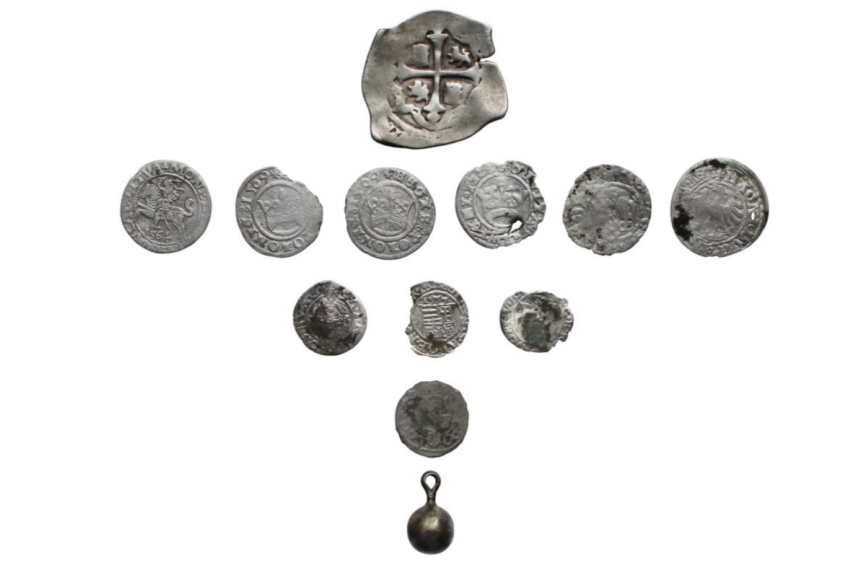
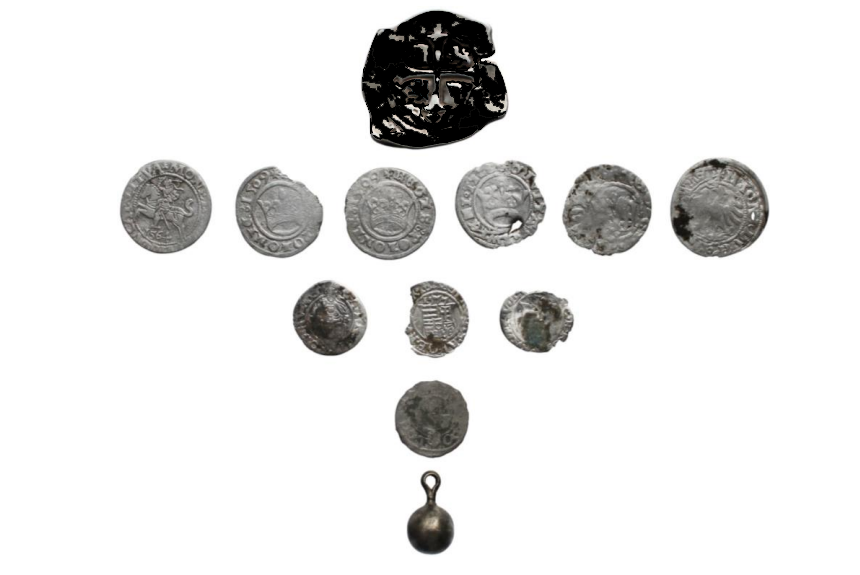
:(

Changed region(s): [[0.4233, 0.0, 0.6047, 0.2661]]

diff --git a/Scripts/extract_imagine.py b/Scripts/extract_imagine.py
@@ -6,7 +6,7 @@ import numpy as np
 
 ##############################################################################################################
 
-imgname = "Assets\\Greyscale test\\start.png"
+imgname = "Assets\\Greyscale test\\fotografietest.png"
 binarythresh = 240
 contrastthresh = 40
 
@@ -16,7 +16,7 @@ contrastthresh = 40
 img = cv.imread(imgname, cv.IMREAD_COLOR)
 rows, cols, _ = img.shape
 grayimg = cv.cvtColor(img, cv.COLOR_BGR2GRAY)
-invbinaryimg = cv.threshold(grayimg, binarythresh, 255, cv.THRESH_BINARY_INV)[1]
+invbinaryimg = cv.threshold(grayimg, binarythresh, 255,cv.THRESH_BINARY)[1]
 
 contours = cv.findContours(invbinaryimg, cv.RETR_EXTERNAL, cv.CHAIN_APPROX_NONE)[0]
 contoursbinaryimg = invbinaryimg.copy()
@@ -53,7 +53,7 @@ for i in range(rows):
                 betterholesimg[i][j] = 0
 
 #save images
-cnts = cv.findContours(betterholesimg, cv.RETR_EXTERNAL, cv.CHAIN_APPROX_SIMPLE)
+cnts = cv.findContours(betterholesimg, cv.RETR_EXTERNAL, cv.CHAIN_APPROX_NONE)
 print(type(cnts))
 cnts = cnts[0] if len(cnts) == 2 else cnts[1]
 image_number = 0
@@ -81,14 +81,43 @@ element = img[y:y+h, x:x+w]
 cv.imwrite("Assets\\Objects\\element_max_perim_{}.png".format(cv.arcLength(maxper_img, True)), element)
 ################################################################################
 #save min and max brightness image
-intensities = []
+"""intensities = []
 for i in range(len(cnts)):
     cimg = np.zeros_like(img)
-    cv.drawContours(cimg, contours, i, color=255, thickness=-1)
+    cv.drawContours(cimg, [contours[i]], -1, color=(255,255,255), thickness=-1)
     pts = np.where(cimg == 255)
     intensities.append(img[pts[0], pts[1]])
-print(sum(sum(intensities[1])/len(intensities[1])))
+print(intensities[0])
 
+maxi = 0
+intensarray = [0] * len(cnts)
+for i in range(len(cnts)):
+    intensarray[i] = i
+
+for i in range(len(cnts)-1):
+    for j in range(i+1, len(cnts)):
+        if sum(sum(intensities[i])/len(intensities[i])) > sum(sum(intensities[j])/len(intensities[j])):
+            aux = intensities[i]
+            intensities[i] = intensities[j]
+            intensities[j] = aux
+            aux2 = intensarray[i]
+            intensarray[i] = intensarray[j]
+            intensarray[j] = aux2
+
+i = intensarray[0]
+j = intensarray[len(cnts)-1]
+
+cv.imshow("img1", img)
+
+print(sum(sum(intensities[i]))/len(intensities[i]))
+print(sum(sum(intensities[j]))/len(intensities[j]))
+cv.drawContours(img, [contours[i]], -1, color=(255,0,0), thickness=-1)
+cv.drawContours(img, [contours[j]], -1, color=(0,255,0), thickness=-1)"""
+
+################################################################################
+#fill contour
+cv.drawContours(img,cnts,0,thickness=cv.FILLED,color=[255,255,255])
+cv.drawContours(img,cnts,0,thickness=5,color=[int(s) for s in img[0][0]])
 ################################################################################
 
 for c in cnts:
@@ -103,10 +132,19 @@ for c in cnts:
     cv.imwrite("Assets\\Objects\\element_{}_area_{}_perim_{}.png".format(image_number,cv.contourArea(c),round(cv.arcLength(c, True),4)), element)
     image_number += 1
 
+cv.imshow("img", img)
 cv.imshow("grayimg", grayimg)
 cv.imshow("invbinaryimg", invbinaryimg)
 cv.imshow("betterholesimg", betterholesimg)
 
 cv.waitKey(0)
+cv.destroyAllWNHMindows()
 
-cv.destroyAllWindows()
+'''
+COLT DE DAT CU MNJMNJMJNNHMJ IN TASTATURA
+
+
+
+HYJUNHJMNHJHJNMNHJMNHJNHJMNHJNMNHJMJ.,,M,M
+
+'''

diff --git a/Scripts/select_objects_in_image.py b/Scripts/select_objects_in_image.py
@@ -1,8 +1,6 @@
 import cv2
-# read image without color
+"""# read image without color
 image = cv2.imread('Assets\\Greyscale test\\start.png')
-"""cv2.imshow('Greyscaled',img)
-cv2.waitKey(0)"""
 
 original = image.copy()
 gray = cv2.cvtColor(image,cv2.COLOR_BGR2GRAY)
@@ -38,4 +36,27 @@ cv2.imshow('thresh', thresh)
 #cv2.imshow('dilate', dilate)
 cv2.waitKey()
 
-#cv2.imwrite('Assets\\Greyscale test\\rock_greyscaled.jpg',img)
+#cv2.imwrite('Assets\\Greyscale test\\rock_greyscaled.jpg',img)"""
+image = cv2.imread('Assets\\Greyscale test\\start.png')
+original = image.copy()
+gray = cv2.cvtColor(image,cv2.COLOR_BGR2GRAY)
+blur = cv2.GaussianBlur(gray, (5,5), 0)
+thresh = cv2.threshold(blur, 10, 255, cv2.THRESH_BINARY_INV)[1]
+kernel = cv2.getStructuringElement(cv2.MORPH_RECT, (7,7))
+dilate = cv2.dilate(thresh, kernel, iterations=1)
+
+# Find contours, obtain bounding box coordinates, and extract ROI
+cnts = cv2.findContours(dilate, cv2.RETR_EXTERNAL, cv2.CHAIN_APPROX_SIMPLE)
+cnts = cnts[0] if len(cnts) == 2 else cnts[1]
+image_number = 0
+for c in cnts:
+    x,y,w,h = cv2.boundingRect(c)
+    cv2.rectangle(image, (x, y), (x + w, y + h), (36,255,12), 2)
+    ROI = original[y:y+h, x:x+w]
+    cv2.imwrite("ROI_{}.png".format(image_number), ROI)
+    image_number += 1
+
+cv2.imshow('image', image)
+cv2.imshow('thresh', thresh)
+cv2.imshow('dilate', dilate)
+cv2.waitKey()
